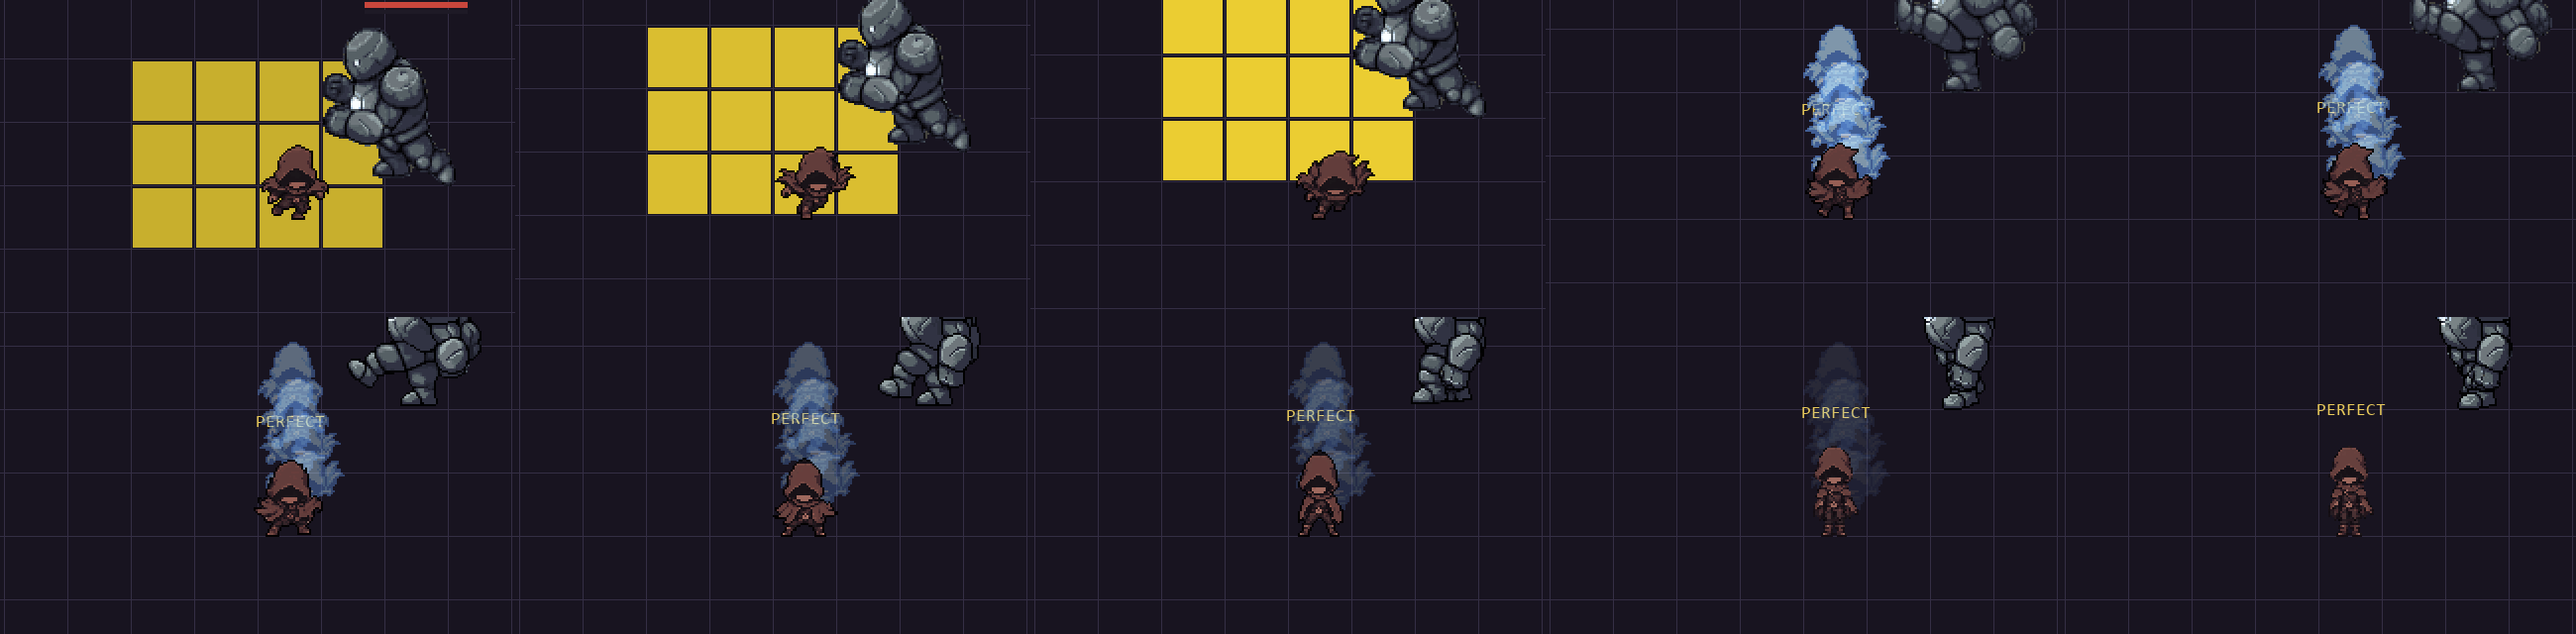
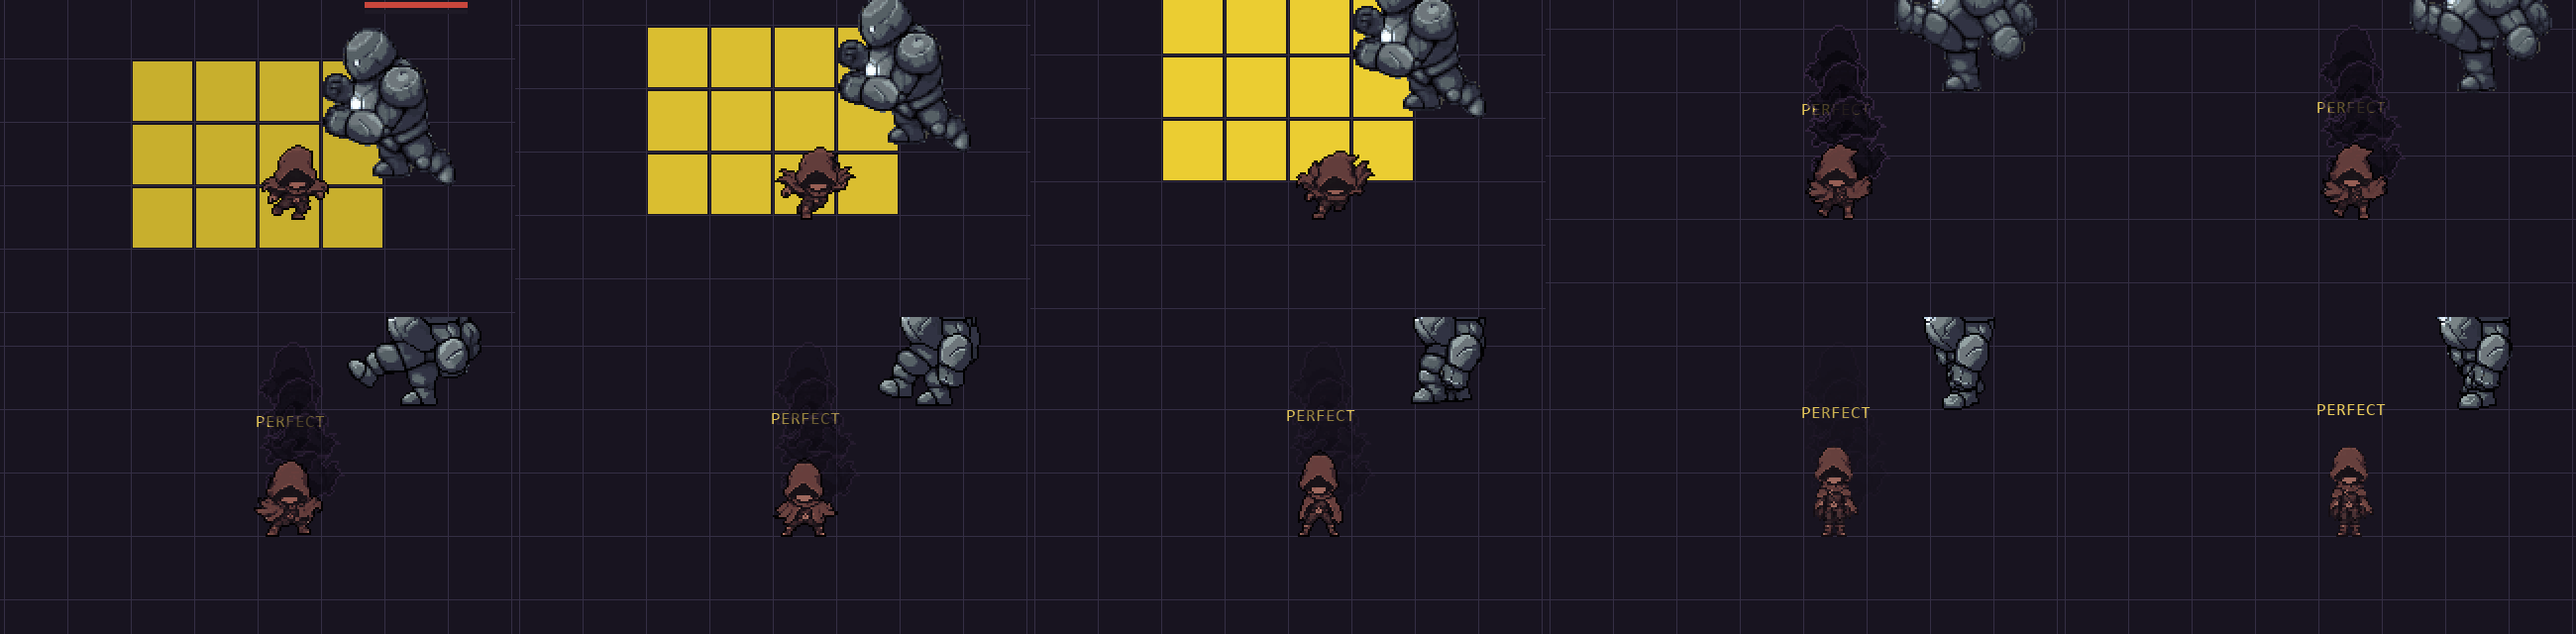
assets: 그림자 잔상 스크립트·게임 녹화 갱신

diff --git a/assets/concepts/pixellab/player_import/dodge_kit/build_dodge_ghost.py b/assets/concepts/pixellab/player_import/dodge_kit/build_dodge_ghost.py
@@ -1,5 +1,6 @@
-"""퍼펙트 회피 잔상 그림 (2026-11-18 사용자 요청): 회피 그림(assets/images/player/dodge/<view>.png)을 하늘색으로 바꾼다.
-테두리(가장 어두운 색)는 짙은 하늘색, 나머지는 밝기에 따라 옅은 하늘색 단계로. 게임이 비쳐 보이게(opacity) 그린다.
+"""퍼펙트 회피 잔상 그림 (2026-11-18 사용자 요청): 회피 그림(assets/images/player/dodge/<view>.png)을 그림자로 바꾼다.
+~~하늘색~~ → 그림자 느낌 (같은 날 사용자 요청: 하늘색은 캐릭터 컨셉과 안 어울림): 몸은 바닥보다 어두운 검보라 단계,
+테두리(가장 어두운 색)만 살짝 밝은 보라로 남겨 어두운 바닥에서도 모양이 읽히게. 게임이 비쳐 보이게(opacity) 그린다.
 출력: assets/images/player/dodge_ghost/<view>.png (회피 그림과 같은 크기·칸)
 실행: python build_dodge_ghost.py
 """
@@ -11,7 +12,8 @@ HERE = Path(__file__).resolve().parent
 ROOT = HERE.parents[4]
 SRC = ROOT / 'assets/images/player/dodge'
 OUT = ROOT / 'assets/images/player/dodge_ghost'
-RAMP = [(90, 140, 220), (140, 200, 255), (191, 230, 255), (238, 248, 254)]
+RAMP = [(6, 4, 10), (12, 9, 17), (19, 14, 25), (27, 20, 34)]  # 몸: 어두운 곳 → 밝은 곳 (바닥 (24, 20, 32) 보다 어둡게)
+RIM = (58, 40, 70)  # 테두리
 
 
 def main():
@@ -21,10 +23,16 @@ def main():
         px = im.load()
         lums = sorted({sum(px[x, y][:3]) for y in range(im.height) for x in range(im.width) if px[x, y][3]})
         lo, hi = lums[0], lums[-1]
+        solid = lambda x, y: 0 <= x < im.width and 0 <= y < im.height and px[x, y][3] > 0  # noqa: E731
+        edge = {(x, y) for y in range(im.height) for x in range(im.width) if solid(x, y)
+                and not all(solid(x + dx, y + dy) for dx, dy in ((1, 0), (-1, 0), (0, 1), (0, -1)))}
         for y in range(im.height):
             for x in range(im.width):
                 r, g, b, a = px[x, y]
                 if not a:
+                    continue
+                if (x, y) in edge:
+                    px[x, y] = RIM + (255,)
                     continue
                 t = (r + g + b - lo) / max(1, hi - lo)
                 px[x, y] = RAMP[min(len(RAMP) - 1, int(t * len(RAMP)))] + (255,)
